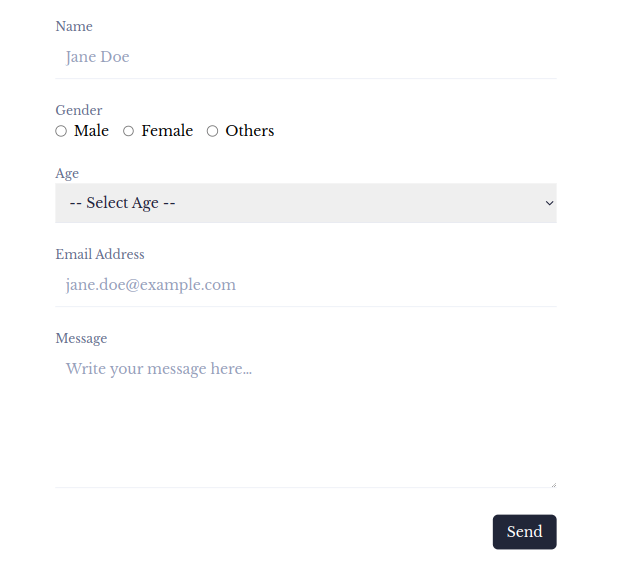
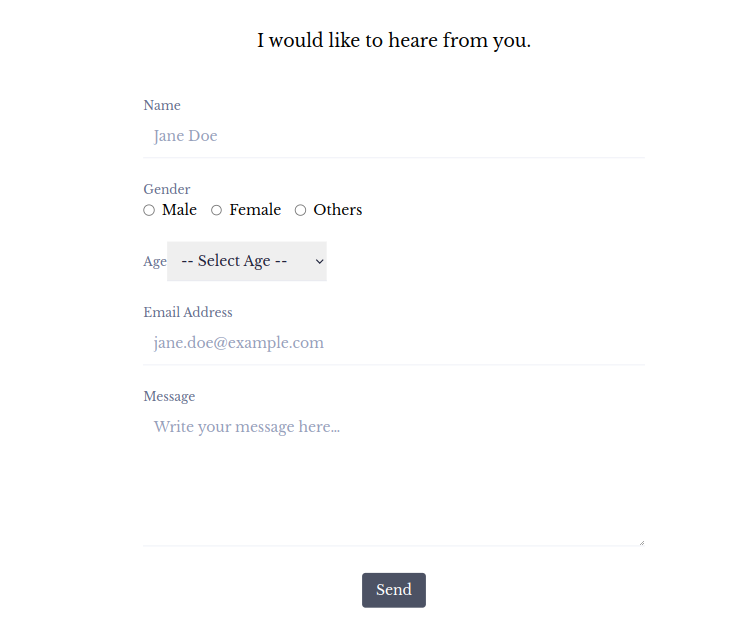
pg view

diff --git a/src/app/api/sign-up/route.js b/src/app/api/sign-up/route.js
@@ -12,6 +12,7 @@ export async function POST(request) {
 
   // Log the form data to the console and confirm what is the format of the data from singup form.
   console.log('Form data:', formData);
+
   // Guard clause checks for email and returns early if it is not found.
   if (!formData.email) {
     // Sends a HTTP bad request error code.
@@ -21,13 +22,10 @@ export async function POST(request) {
     });
   }
 
-  // Get the email address from the form datamailh
-  const email = formData.email;
-  const Fullname = formData.firstName + " " + formData.lastName;
 
   // Create the data for the Mailchimp API request
   const data = {
-    email_address: email,
+    email_address: formData.email, // The email address submitted in the form
     status: 'subscribed', // 'subscribed' to add the email to your mailing list
     merge_fields: {
       "FNAME": formData.firstName, 
@@ -45,10 +43,16 @@ export async function POST(request) {
       status: 302,
       headers: { Location: "/" },
     });
-  } catch (error) {
+  }  catch (error) {
     // Handle the error
     console.error('Mailchimp error:', error.response ? error.response.body : error.message);
-    return new Response(JSON.stringify({ error: "An error occurred", details: error.response ? error.response.body : error.message }), {
+  
+    let errorMessage = "An error occurred";
+    if (error.response && error.response.body && error.response.body.title === "Member Exists") {
+      errorMessage = "This email is already subscribed";
+    }
+  
+    return new Response(JSON.stringify({ error: errorMessage, details: error.response ? error.response.body : error.message }), {
       status: 500,
       headers: { 'Content-Type': 'application/json' },
     });

diff --git a/src/slices/NewContactForm/index.js b/src/slices/NewContactForm/index.js
@@ -1,4 +1,6 @@
+
 import { Bounded } from "@/components/Bounded";
+import { PrismicRichText } from "@/components/PrismicRichText";
 
 const Field = ({ label, children }) => {
   return (
@@ -56,7 +58,7 @@ const SelectField = ({ label, name, options, required = true }) => {
       <select
         name={name}
         required={required}
-        className="w-full rounded-none border-b border-slate-200 py-3 pl-3 pr-7 text-slate-800"
+        className="w-4.5/12 rounded-none border-b border-slate-200 py-3 pl-3 pr-7 text-slate-800"
       >
         <option value="">-- Select Age --</option>
         {options.map((option) => (
@@ -93,6 +95,7 @@ const NewContactForm = ({ slice }) => {
         method="post"
         className="grid grid-cols-1 gap-6"
       >
+        <h2 className="text-center text-xl mb-6"><PrismicRichText field={slice.primary.title} /></h2>
         <InputField label="Name" name="name" placeholder="Jane Doe" />
         <RadioField label="Gender" name="gender" options={["Male", "Female", "Others"]} />
         <SelectField label="Age" name="age" options={ageOptions} />
@@ -107,11 +110,10 @@ const NewContactForm = ({ slice }) => {
           name="message"
           placeholder="Write your message here…"
         />
-        {/* <TimezoneField /> */}
         <div className="flex justify-center">
           <button
             type="submit"
-            className="px-4 py-2 bg-gray-800 text-white rounded-md"
+            className="bg-gray-600 text-white px-4 py-2 rounded"
           >
             Send
           </button>

diff --git a/prismicio-types.d.ts b/prismicio-types.d.ts
@@ -466,36 +466,6 @@ export interface NewContactFormSliceDefaultPrimary {
    * - **Documentation**: https://prismic.io/docs/field#rich-text-title
    */
   title: prismic.RichTextField;
-
-  /**
-   * Name field in *NewContactForm → Primary*
-   *
-   * - **Field Type**: Rich Text
-   * - **Placeholder**: *None*
-   * - **API ID Path**: new_contact_form.primary.name
-   * - **Documentation**: https://prismic.io/docs/field#rich-text-title
-   */
-  name: prismic.RichTextField;
-
-  /**
-   * Email field in *NewContactForm → Primary*
-   *
-   * - **Field Type**: Rich Text
-   * - **Placeholder**: *None*
-   * - **API ID Path**: new_contact_form.primary.email
-   * - **Documentation**: https://prismic.io/docs/field#rich-text-title
-   */
-  email: prismic.RichTextField;
-
-  /**
-   * Message field in *NewContactForm → Primary*
-   *
-   * - **Field Type**: Rich Text
-   * - **Placeholder**: *None*
-   * - **API ID Path**: new_contact_form.primary.message
-   * - **Documentation**: https://prismic.io/docs/field#rich-text-title
-   */
-  message: prismic.RichTextField;
 }
 
 /**
